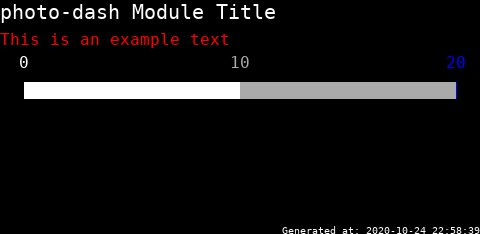
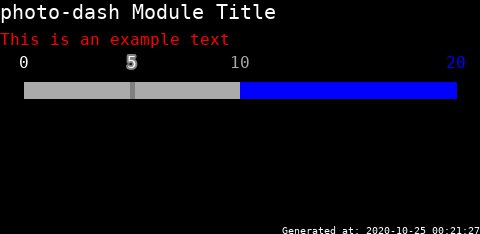
Fix gauge being colored incorrectly and lacking the reading

Changed region(s): [[0.0312, 0.3291, 0.9688, 0.4487], [0.875, 0.9573, 1.0, 1.0], [0.25, 0.2094, 0.3125, 0.2991]]

diff --git a/photo_dash/image.py b/photo_dash/image.py
@@ -11,6 +11,7 @@ from photo_dash import config
 SECTIONS = Dict[str, Union[str, List[Dict[str, Any]]]]
 T_FONT = ImageFont.FreeTypeFont
 
+
 class TooManySections(BufferError):
     """Too many sections were provided. The image cannot be rendered."""
 
@@ -83,13 +84,8 @@ class DashImg:
     GAUGE_WIDTH = int(0.9 * config.WIDTH)
     GAUGE_OFFSET = int(0.05 * config.WIDTH)
     GAUGE_VALUE_STROKE = 2
-    GAUGE_VALUE_STROKE_COLOR = '#808080'
-    GAUGE_VALUE_FONT = ImageFont.truetype(
-        font=FONT,
-        size=SECTION_SIZE,
-        stroke_width=GAUGE_VALUE_STROKE,
-        stroke_fill=GAUGE_VALUE_STROKE_COLOR,
-        )
+    GAUGE_LINE_WIDTH = 5
+    GAUGE_LINE_COLOR = '#808080'
 
     SECTION_SPACING = {
         'text': 1,
@@ -207,31 +203,40 @@ class DashImg:
 
         x0 = self.GAUGE_OFFSET
         y0 = self.y + self.SECTION_FONT.size + self.SPACER
-        x1 = x0 + self.GAUGE_WIDTH
         y1 = y0 + self.SECTION_FONT.size
+
+        last_x0 = x0
 
         # Draw the gauge first
         for val, color in zip(values, colors):
             offset = self.get_gauge_offset(val, end_a, end_b)
             self.draw.text(
                 (offset, self.y),
-                str(value),
+                str(val),
                 fill=color,
                 font=self.SECTION_FONT,
                 anchor='mt',
                 )
             self.draw.rectangle(
-                [(offset, y0), (x1, y1)],
+                [(last_x0, y0), (offset, y1)],
                 fill=color,
                 )
+            last_x0 = offset
 
         offset = self.get_gauge_offset(value, end_a, end_b)
         self.draw.text(
             (offset, self.y),
             str(value),
-            fill=color,
+            fill=self.TEXT_COLOR,
             font=self.SECTION_FONT,
             anchor='mt',
+            stroke_width=self.GAUGE_VALUE_STROKE,
+            stroke_fill=self.GAUGE_LINE_COLOR,
+            )
+        self.draw.line(
+            [(offset, y0), (offset, y1)],
+            fill=self.GAUGE_LINE_COLOR,
+            width=self.GAUGE_LINE_WIDTH,
             )
 
         self._next_y(2 * self.SECTION_FONT.size + self.SPACER)
